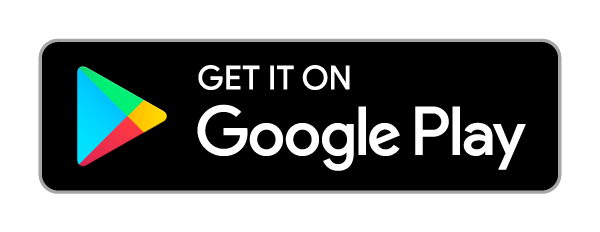
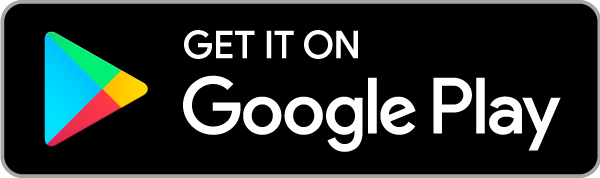
c

diff --git a/index.html b/index.html
@@ -155,8 +155,8 @@ var SiteParameters = {"days":"days","hours":"hours","minutes":"minutes","seconds
 
 <!-- <span class="btn-container btn-inline" ><a href="http://themeforest.net/item/uncode-creative-multiuse-wordpress-theme/13373220?utm_source=undsgncta&ref=undsgn&license=regular&open_purchase_for_item_id=13373220&purchasable=source" class="custom-link btn btn-color-007007 btn-circle  btn-icon-left" onClick="trackOutboundLink(&#039;http://themeforest.net/item/uncode-creative-multiuse-wordpress-theme/13373220?utm_source=undsgncta&amp;ref=undsgn&amp;license=regular&amp;open_purchase_for_item_id=13373220&amp;purchasable=source&#039;); return false;" style="min-width:220px"><i class="fa fa-android"></i>android app</a></span> -->
 
-<a href="google.com"><img style="margin-right: 10px; " src="android.png" width="200" height="60" alt=""> </a>
-<a href="google.com"><img style="margin-right: 10px; " src="apple.png" width="200" height="60" alt=""> </a>
+<a href="google.com"><img style="margin-right: 10px; " src="android.png" width="220" height="60" alt=""> </a>
+<a href="google.com"><img style="margin-right: 10px; " src="apple.png" width="220" height="60" alt=""> </a>
 <!-- <span class="btn-container btn-inline" ><a href="http://themeforest.net/item/uncode-creative-multiuse-wordpress-theme/13373220?utm_source=undsgncta&ref=undsgn&license=regular&open_purchase_for_item_id=13373220&purchasable=source" class="custom-link btn btn-color-007007 btn-circle  btn-icon-left" onClick="trackOutboundLink(&#039;http://themeforest.net/item/uncode-creative-multiuse-wordpress-theme/13373220?utm_source=undsgncta&amp;ref=undsgn&amp;license=regular&amp;open_purchase_for_item_id=13373220&amp;purchasable=source&#039;); return false;" style="min-width:220px"><i class="fa fa-apple"></i>ios app</a></span> --></div></div></div></div></div>
 
 <div class="pos-bottom pos-left align_center align_center_tablet align_center_mobile column_child col-lg-6 boomapps_vccolumn mobile-hidden col-md-clear no-internal-gutter"><div class="uncol style-light" ><div class="uncoltable"><div class="uncell  boomapps_vccolumn no-block-padding"><div class="uncont"><div class="uncode-single-media  text-center"><div class="single-wrapper" style="max-width: 1200px;"><div class="tmb tmb-light  tmb-media-first tmb-media-last tmb-content-overlay tmb-no-bg">
